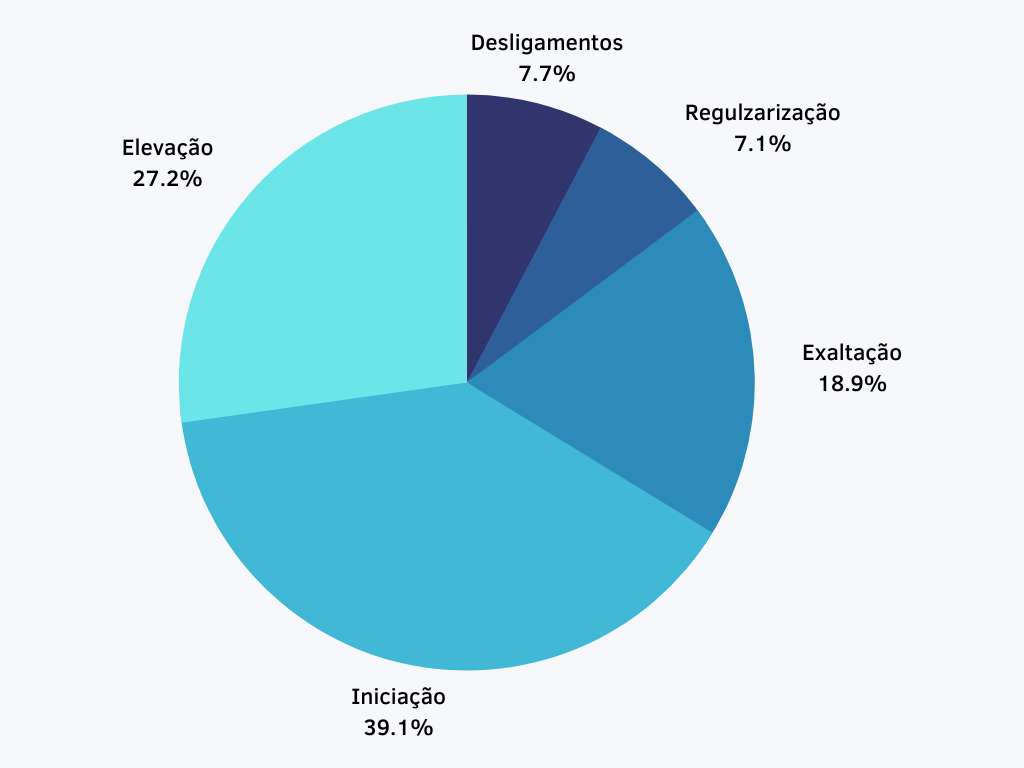
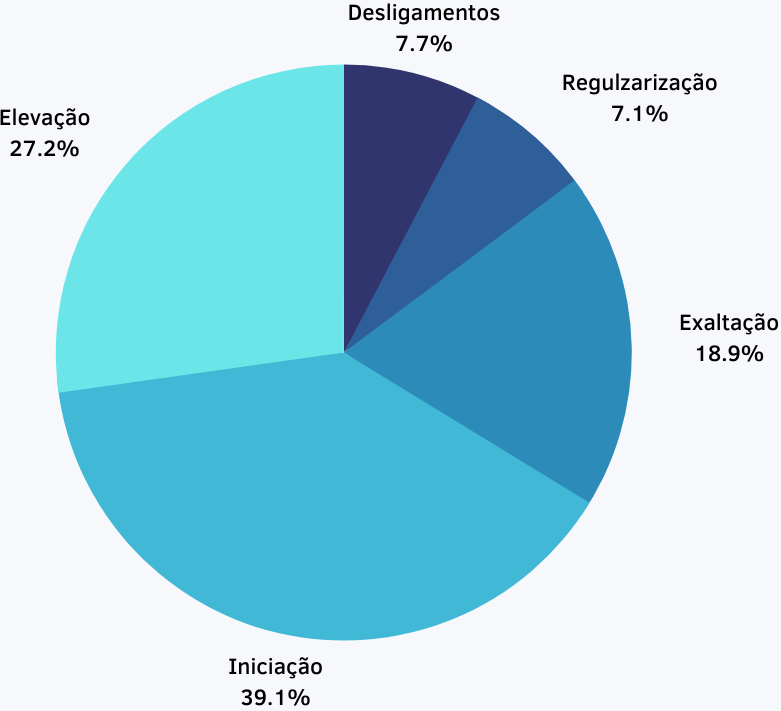
pizza

diff --git a/styles/index.css b/styles/index.css
@@ -123,14 +123,15 @@ main .cards .card p.card_numero{
 /*-------------------GRÁFICO CONTAINER-------------------*/
 .logo-grafico {
     display: flex;
+    align-items: center;
     height: 100%;
     width: 100%;
     margin-top: 4rem;
     justify-content: space-between;
 }
 .logo-grafico .logo {
-    width: 20rem;
-    height: 20rem;
+    width: 15rem;
+    height: 15rem;
     border-radius: 20px;
     margin-right: 4rem;
 }
@@ -140,6 +141,5 @@ main .cards .card p.card_numero{
     height: 15rem;
     border-radius: 20px;
     margin-left: 5rem;
-    margin-top: 3rem;
 }
 

diff --git a/styles/processos.css b/styles/processos.css
@@ -124,14 +124,18 @@ main .cards .card p.card_numero{
 .logo-gra {
     display: flex;
     width: 100%;
+    align-items: center;
     justify-content: space-around;
 }
 .img {
-    width: 30rem;
-    margin-top: 4rem;
+    width: 20rem;
+    height: 18rem;
+    margin-top: 5rem;
+
 }
 .logo {
-    margin-top: 4rem;
-    width: 20rem;
-    height: 20rem;
+    width: 15rem;
+    height: 15rem;
+    border-radius: 20px;
+    margin-right: 4rem;
 }
